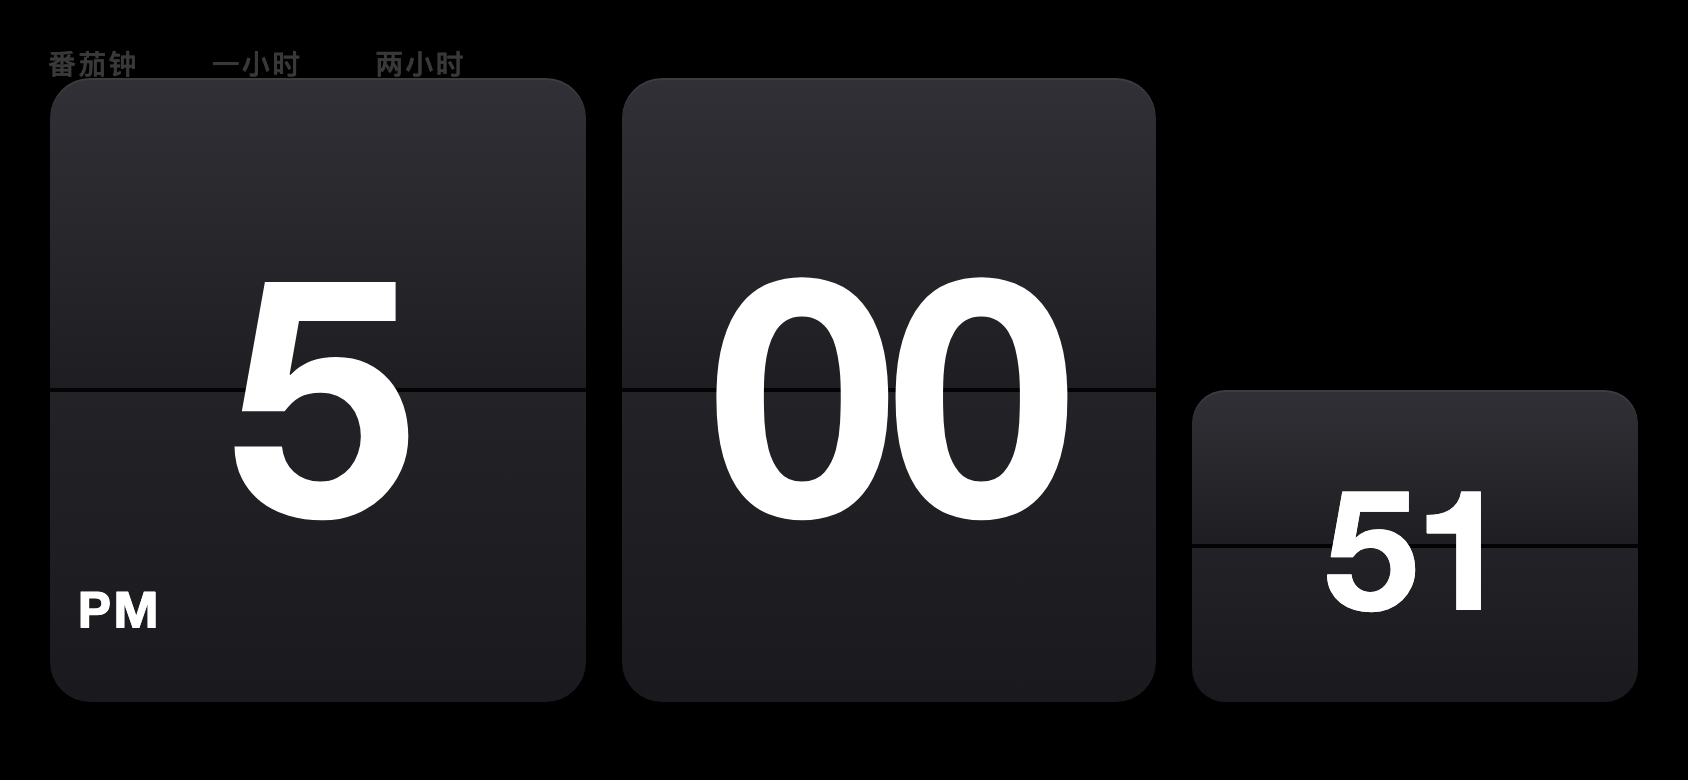
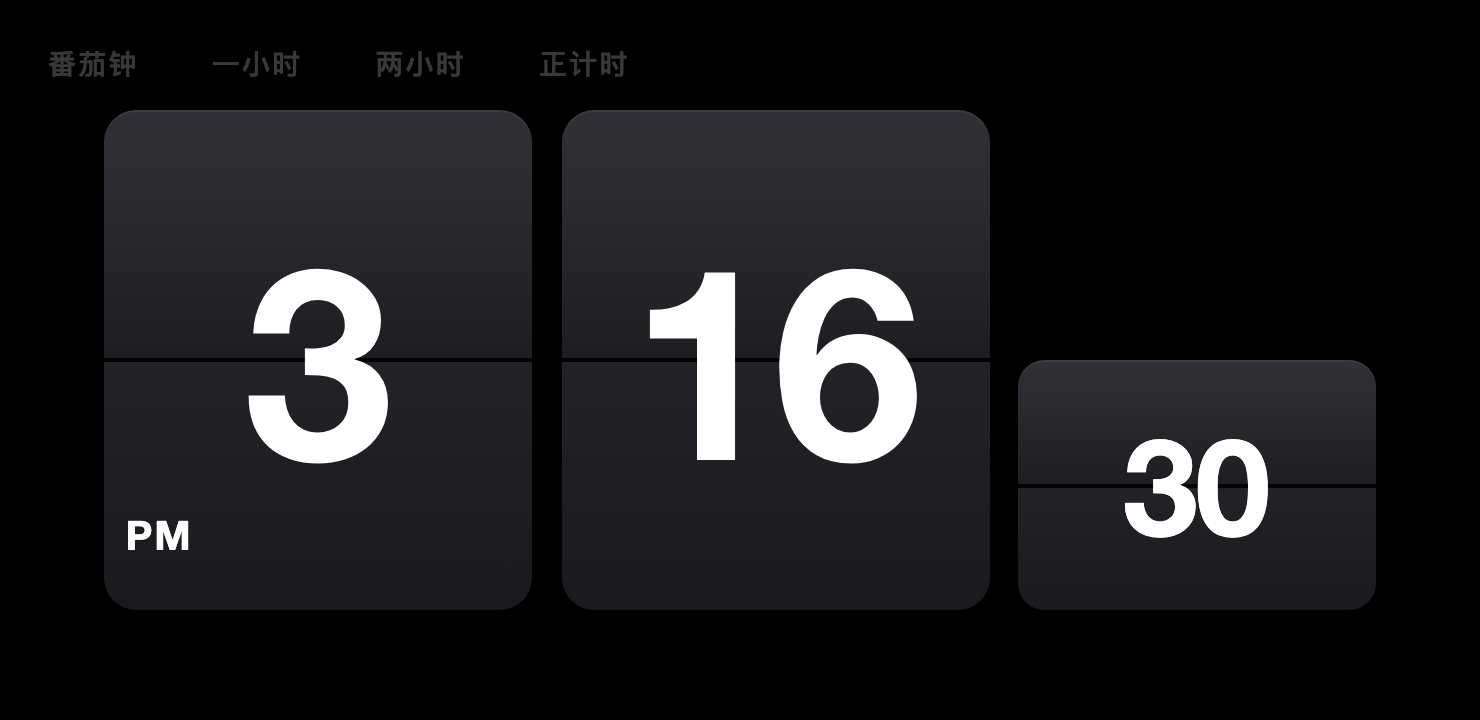
docs: README 更新正计时功能 + 全套最新截图；fix: 番茄钟提示文案随状态切换
- 番茄钟提示文案补齐动态切换（走时「暂停」/停止「开始」），与倒计时/正计时一致
- 新增截图：正计时计次侧边栏（iPad 横屏/手机横屏/手机竖屏）、
  手机竖屏时钟、番茄钟/倒计时走时态，全部 2x 高清重拍
- README：三种模式→四种模式，新增「正计时 + 计次」章节与截图，
  风格延续原有的简约叙事

Changed region(s): [[0.0311, 0.0611, 0.9946, 0.9167], [0.1243, 0.3361, 0.2797, 0.6722]]

diff --git a/index.html b/index.html
@@ -741,6 +741,7 @@
   var pMin = document.getElementById('pMin');
   var pSec = document.getElementById('pSec');
   var pomoState = document.getElementById('pomoState');
+  var pomoHint = document.getElementById('pomoHint');
 
   /* 倒计时视图元素 + 左上角按钮条 */
   var cdView = document.getElementById('cdView');
@@ -952,6 +953,10 @@
     /* 走时中只显示段名保持简洁；暂停时追加「已暂停」提示，防止误以为没在走 */
     var st = (pomo.mode === 'focus' ? '专注' : '休息') + (pomo.running ? '' : ' · 已暂停');
     if (pomoState.textContent !== st) { pomoState.textContent = st; }   /* 没变就不写 DOM */
+    /* 提示文案随运行状态切换：走时中提示「暂停」，停止时提示「开始」 */
+    var hint = pomo.running ? '单击卡片· 暂停，双击卡片· 重置'
+                            : '单击卡片· 开始，双击卡片· 重置';
+    if (pomoHint.textContent !== hint) { pomoHint.textContent = hint; }
   }
 
   function pomoTick(animate) {

diff --git a/README.md b/README.md
@@ -6,10 +6,10 @@
 
 **时间翻页而过，专注留在当下。**
 
-翻页时钟 · 番茄钟 · 倒计时 —— 一块挂在屏幕里的苹果翻页钟。
+翻页时钟 · 番茄钟 · 倒计时 · 正计时 —— 一块挂在屏幕里的苹果翻页钟。
 
 [![在线体验](https://img.shields.io/badge/🌐_立即打开-uouin.github.io%2FTempo-1e1e22?style=for-the-badge&labelColor=000000)](https://uouin.github.io/Tempo/)
-[![零依赖](https://img.shields.io/badge/安装_—_不需要-✓-brightgreen?style=for-the-badge&labelColor=000000)](#-三种模式一键切换)
+[![零依赖](https://img.shields.io/badge/安装_—_不需要-✓-brightgreen?style=for-the-badge&labelColor=000000)](#-四种模式一键切换)
 [![单文件](https://img.shields.io/badge/体积_—_25KB-轻如鸿毛-blue?style=for-the-badge&labelColor=000000)](#)
 [![老设备](https://img.shields.io/badge/十年前的_iPad_—_也能跑-orange?style=for-the-badge&labelColor=000000)](#-为老设备而生)
 
@@ -29,9 +29,9 @@
 
 ---
 
-## ✨ 三种模式，一键切换
+## ✨ 四种模式，一键切换
 
-左上角有三个**刻意做得很淡**的小按钮：`番茄钟 · 一小时 · 两小时`。
+左上角有四个**刻意做得很淡**的小按钮：`番茄钟 · 一小时 · 两小时 · 正计时`。
 点哪个进哪个；正在用的那个会微微亮起、变成「时钟」—— 点它随时回家。
 
 ### 🕐 翻页时钟
@@ -68,6 +68,12 @@
 - 中途熄屏、切去干别的，回来进度分秒不差
 - 暂停时，标题会轻轻亮出「**已暂停**」三个字；一旦继续，它就悄悄退场，不打扰专注
 
+<div align="center">
+
+<img src="assets/pomodoro.png" alt="番茄钟" width="72%">
+
+</div>
+
 ### ⏳ 一小时 / 两小时倒计时
 
 给「再干一小时的活」一个庄严的倒计时：
@@ -77,6 +83,27 @@
 <div align="center">
 
 <img src="assets/countdown.png" alt="倒计时" width="72%">
+
+</div>
+
+### ⏱ 正计时 + 计次
+
+需要一个不给压力、只管往前走的钟？切到**正计时**：
+
+- 进入就走表，**双击重置**，轻点暂停 / 继续 —— 和其他模式同样的手感
+- 右下角一枚不起眼的**计次**按钮：每点一次，记下当前时刻与距上次的间隔
+- 第一次计次，**侧边栏轻轻滑入**；时间线最新在上，一目了然，最多可记 300 次
+- 竖屏时侧边栏从**底部升起**，横屏时从**右侧展开**，卡片自动让位 —— 怎么转都从容
+
+<div align="center">
+
+<table><tr>
+<td><img src="assets/stopwatch-laps.png" width="100%"></td>
+<td><img src="assets/stopwatch-phone-portrait.png" width="100%"></td>
+</tr><tr>
+<td align="center"><sub>横屏 · 右侧计次时间线</sub></td>
+<td align="center"><sub>竖屏 · 底部计次栏</sub></td>
+</tr></table>
 
 </div>
 
@@ -116,7 +143,7 @@
 
 </div>
 
-旋转屏幕即时重排，横竖都好看。
+旋转屏幕即时重排，横竖都好看 —— 手机、iPad、电脑浏览器，每一块屏都单独调过版式。
 
 ---
 
